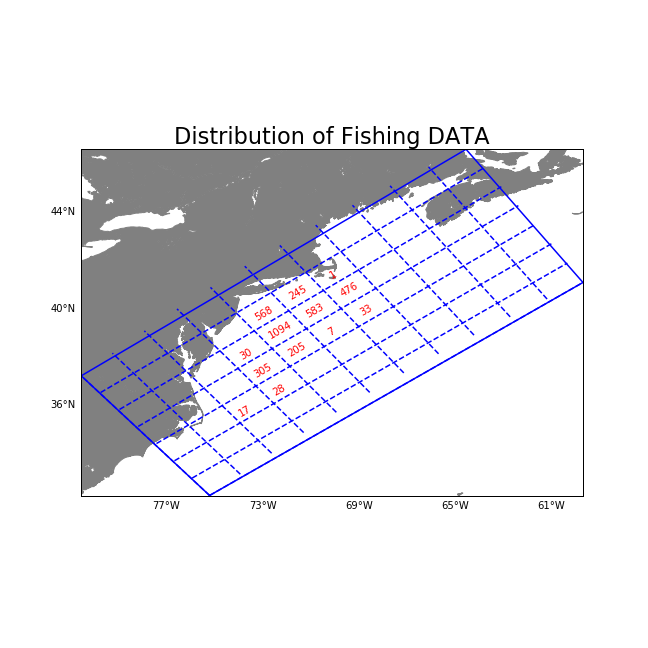
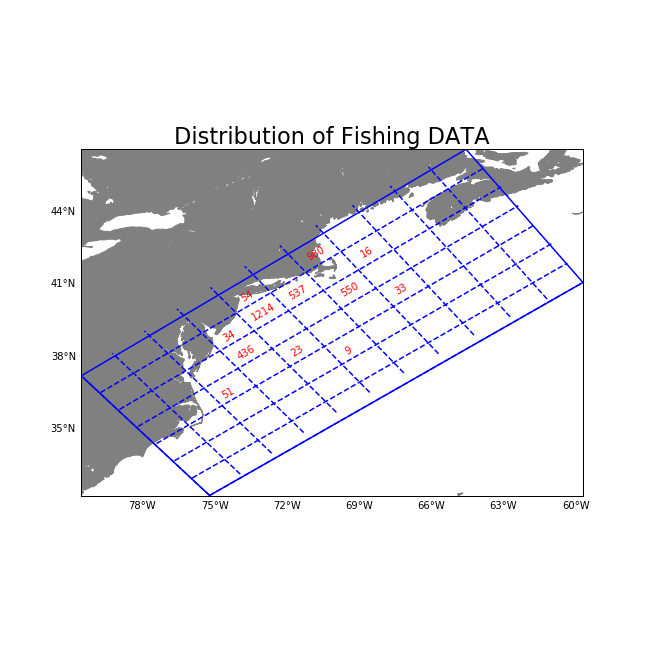
Add files via upload

diff --git a/Map of mod vs obs/binning_models.py b/Map of mod vs obs/binning_models.py
@@ -2,9 +2,6 @@
 """
 Created on Mon Apr 13 09:31:54 2020
 
-For ploting distribution of fishing data,but this code is still not finished. 
-If you need to use binning python,you can read test_yifan.py that saved in same folder with this code. 
-
 @author: Mingchao
 """
 
@@ -17,11 +14,11 @@ from mpl_toolkits.basemap import Basemap
 import matplotlib.pyplot as plt
 
 #Hardcodes
-path = 'E:\\Mingchao\\paper\\vessel_dfs_C.csv'
-#url = 'http://tds.marine.rutgers.edu/thredds/dodsC/roms/espresso/2009_da/his'
+path = 'E:\\Mingchao\\paper\\vessel_dfs_D.csv'
+url = 'http://tds.marine.rutgers.edu/thredds/dodsC/roms/espresso/2009_da/his'
 save_path = 'E:\\Mingchao\\paper\\distribution_of_fishing.png'
 
-def draw_basemap(fig, ax, lonsize, latsize, interval_lon=4, interval_lat=4):
+def draw_basemap(fig, ax, lonsize, latsize, interval_lon=3, interval_lat=3):
     ax = fig.sca(ax)
     dmap = Basemap(projection = 'cyl',
                    llcrnrlat = min(latsize)-0.01,
@@ -32,9 +29,11 @@ def draw_basemap(fig, ax, lonsize, latsize, interval_lon=4, interval_lat=4):
     dmap.drawparallels(np.arange(int(min(latsize)),
                                  int(max(latsize))+1,interval_lat),
                        labels=[1,0,0,0] ,linewidth=0,)
+                       #labels=[1,0,0,0])
     dmap.drawmeridians(np.arange(int(min(lonsize))-1,
                                  int(max(lonsize))+1,interval_lon),
                        labels=[0,0,0,1] ,linewidth=0,)
+                       #labels=[0,0,0,1])
     dmap.drawcoastlines(color='grey')
     dmap.fillcontinents(color='grey')
     dmap.drawmapboundary()
@@ -130,8 +129,10 @@ for i in nearestIndex:
     n = whichArea(i[1], r2)
     errorNum[m][n] += 1
 '''
-x_cut = pd.cut(data.lat, np.linspace(32, 47, 8), right=False)
-y_cut = pd.cut(data.lon, np.linspace(-80, -59, 12), right=False)
+#x_cut = pd.cut(data.lat, np.linspace(32, 47, 8), right=False)
+#y_cut = pd.cut(data.lon, np.linspace(-80, -59, 12), right=False)
+x_cut = pd.cut(data.lat, np.linspace(32.24, 46.612, 8), right=False)
+y_cut = pd.cut(data.lon, np.linspace(-80.52, -59.7, 12), right=False)
 # group and count
 count_df = data.groupby([x_cut, y_cut]).count()
 #drop null value only save the counting 
@@ -140,20 +141,56 @@ count_df = count_df['difference'].dropna()
 #lat_i = [44.5, 44.5, 44.5, 42, 42, 42, 42, 39.5, 39.5, 34.5]
 #lon_j = [-73, -70.667, -68.333, -75.333, -73, -70.667, -68.333, -75.333, -73, -75.333]
 #dataNum_k = [64, 1069, 46, 67, 1345, 533, 288, 46, 120, 14]
+'''
+lat_list = [36.286, 36.286, 38.429, 38.429, 38.429, 38.429,\
+            40.571, 40.571, 40.571, 40.571, 42.714, 42.714,\
+            42.714]
+lon_list = [-76.182, -74.273, -74.273, -72.364, -70.455, -68.545,\
+            -74.273, -72.364, -70.455, -68.545, -72.364, -70.455,\
+            -68.545]
+dataNum_list = [17, 28, 305, 205, 7, 33, 30,\
+                1094, 583, 476, 568, 245, 1]
 
-dataNum[2][2] = 17
-dataNum[2][3] = 28
-dataNum[3][3] = 305
-dataNum[3][4] = 205
-dataNum[3][5] = 7
-dataNum[3][6] = 33
-dataNum[4][3] = 30
-dataNum[4][4] = 1094
-dataNum[4][5] = 583
-dataNum[4][6] = 476
-dataNum[5][4] = 568
-dataNum[5][5] = 245
-dataNum[5][6] = 1
+lat_list = [36.346, 38.399, 38.399, 38.399, 38.399, 40.453,\
+            40.453, 40.453, 40.453, 40.453, 42.506, 42.506
+           ]
+lon_list = [-74.842, -74.842, -72.949, -71.056, -69.164, -74.842,\
+            -72.949, -71.056, -69.164, -67.271, -71.056, -69.164
+           ]
+dataNum_list = [51, 34, 436, 23, 9, 54, 1214,\
+                537, 550, 33, 980, 16]
+def judge_index(lat, lon):
+#get the index of x and y
+    lat_index = [32.24, 34.293, 36.346, 38.399, 40.453, 42.506, 44.559]
+    lon_index = [-80.52, -78.627, -76.735, -74.842, -72.949, -71.056,\
+                 -69.164, -67.271, -65.378, -63.485, -61.593]
+    for i in lat_index:
+        if lat == i:
+            m = lat_index.index(i)
+    for j in lon_index:
+        if lon == j:
+            n = lon_index.index(j)
+    return m, n 
+
+for i in range(len(lat_list)):
+    m, n = judge_index(lat_list[i], lon_list[i])
+    dataNum[m][n] = dataNum_list[i]
+for i in range(len(lat_list)):
+     plt.text(lon_list[i]-1, lat_list[i]-1, dataNum_list[i], color='r',multialignment='center', ha='center')
+'''
+dataNum[2][5] = 9
+dataNum[3][2] = 51
+dataNum[3][4] = 23
+dataNum[3][7] = 33
+dataNum[4][3] = 436
+dataNum[4][6] = 550
+dataNum[5][3] = 34
+dataNum[5][4] = 1214
+dataNum[5][5] = 537
+dataNum[5][7] = 16
+dataNum[6][4] = 54
+dataNum[6][6] = 980
+'''
 #x, y = m(lon_j, lat_i)
 #for i in range(len(lon_j)):
 #    plt.text(lon_j[i], lat_i[i], dataNum_k[i], color='r')
@@ -162,6 +199,7 @@ dataNum[5][6] = 1
 #dataNum.reverse()
 #m1, m2 = 37.20694434507049, 46.61132781935112
 #n1, n2 = -80.51869016711879, -75.19030604271552
+'''
 m1, m2 = 32.24, 41.08
 n1, n2 = -75.19, -59.69
 for s in range(7):
